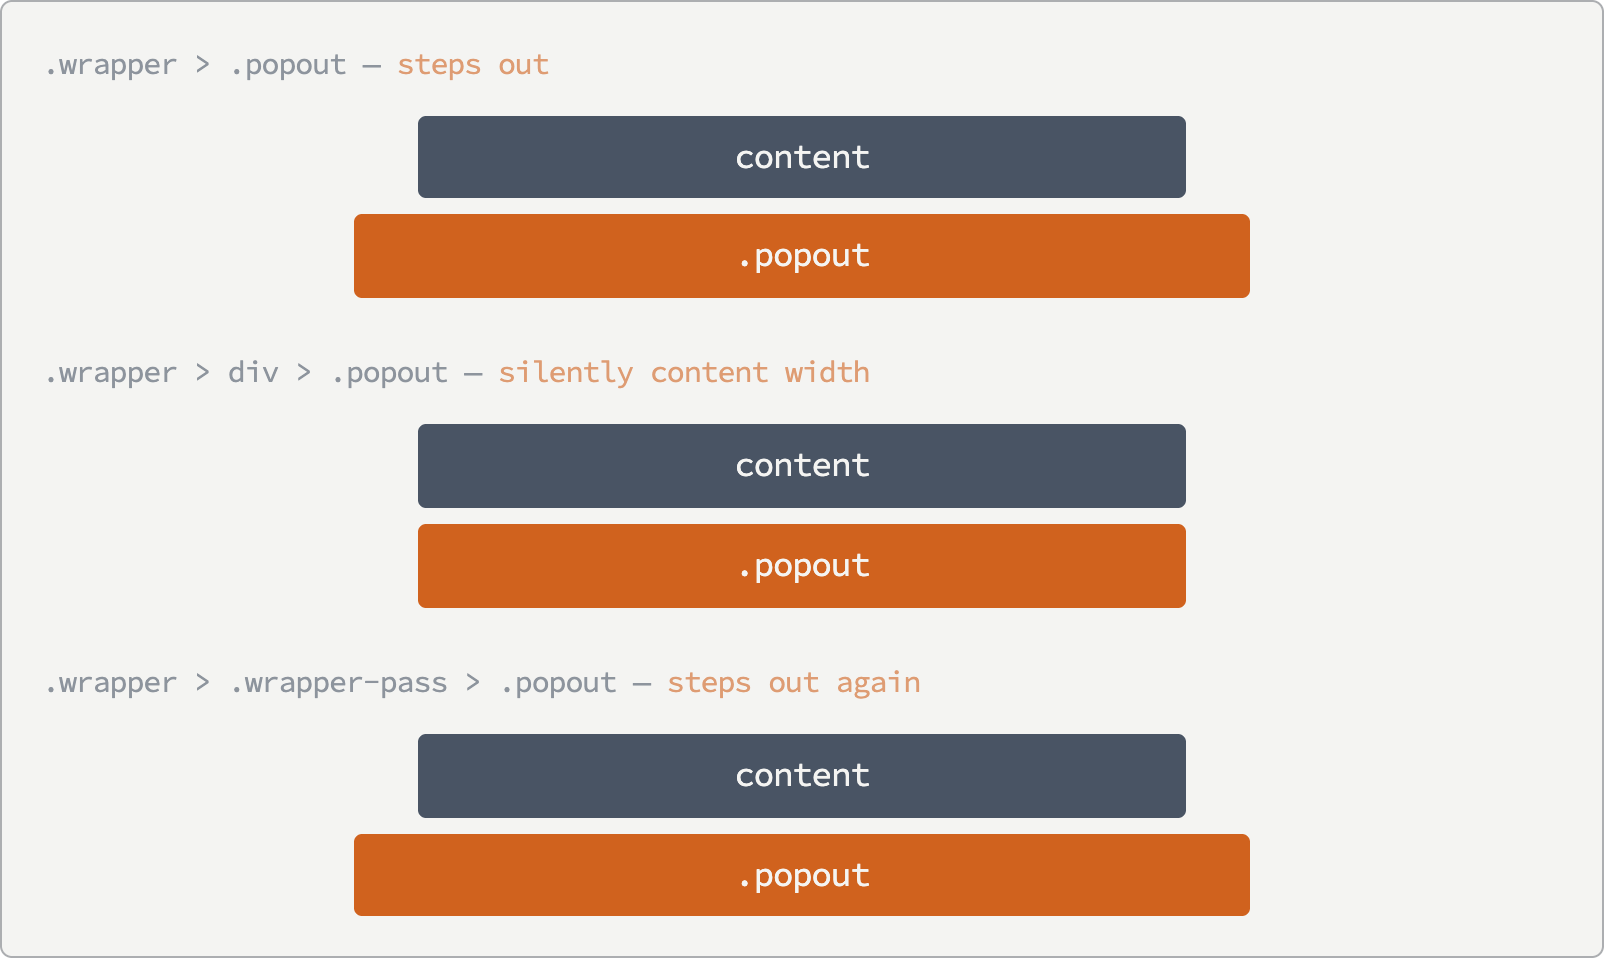
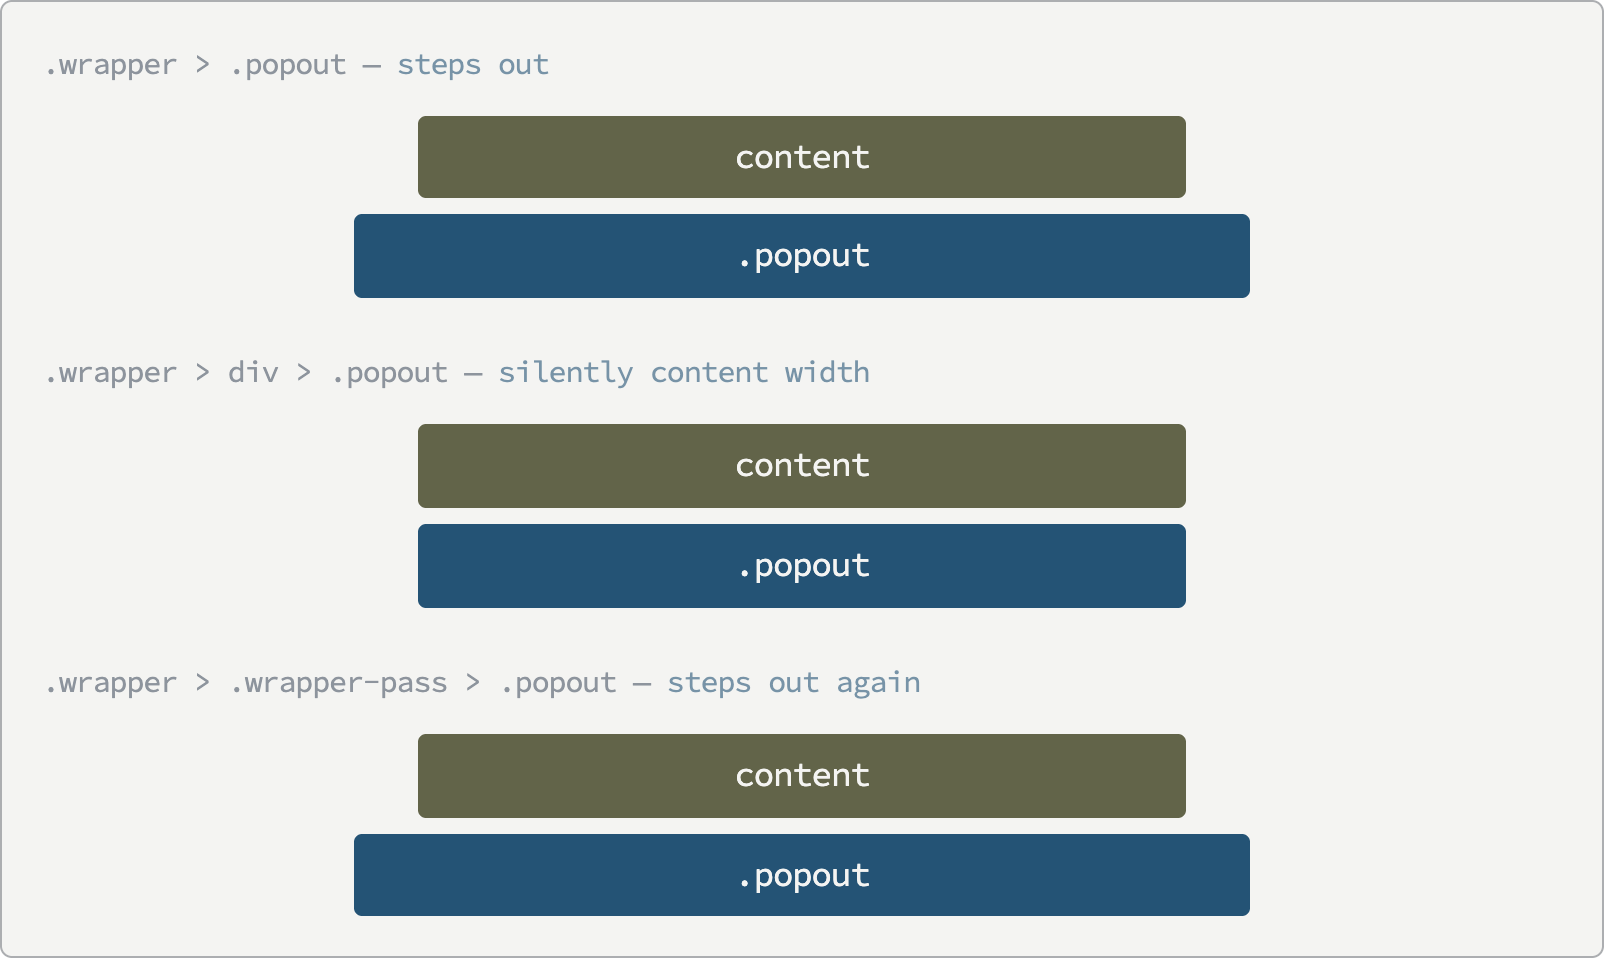
wiki: blue/green accents for the figures, and Layout shift gets the band drawn
The layout-breakout and tooltip figures move off the slate and the orange onto --color-accent-blue and --color-accent-green. Label text on a bar clears AA as a side effect: --color-bg measured 3.50 on the old orange, 7.42 on blue and 5.55 on green. The two theme-toggle shots keep their colors, which are that page's subject, and the tooltip itself keeps the block's own --color-text fill for the same reason.

Layout shift had no figure despite being the longest page on the wiki. The new one re-measures the 409-430px band rather than redrawing the table: six srcdoc iframes, one per width and font state, each loading the compiled global.css and the real footer, with row counts and cluster heights read back out of each frame's own geometry. Only 412px disagrees, two rows against three. All six report the same 96px height, which is the reserve holding the box still while the links redistribute inside it — the visual form of the page's claim that the fix halves the shift rather than removing it.

The footer is lifted verbatim into site-footer.js, beside the existing site-header.js. A first attempt hand-built the link row and every column agreed: the real cluster sits inside .wrapper's 6vw gutter and shares a flex container with the platform nav, and those ~26px are the whole difference between wrapping at two rows and three.

diff --git a/src/wiki/_sources/site-footer.js b/src/wiki/_sources/site-footer.js
@@ -1,0 +1,4 @@
+// The site's REAL footer, lifted verbatim from a rendered landing page — the .wrapper gutter and the platform nav beside the link cluster are both load-bearing for where the links wrap.
+// Re-lift it with: curl -s http://localhost:8080/ and take the <footer class="site-footer …"> element.
+
+window.SITE_FOOTER = "<footer class=\"site-footer | mt-l-xl p-s-m\">\n  <div class=\"wrapper\">\n    <div class=\"cluster gutter-xs\">\n      <nav aria-label=\"Complementary\" class=\"footer-links | cluster text-step-min-2\">\n        <a href=\"https://github.com/pjedlund/soli-deo-gloria-dedication\" rel=\"license noopener\"><abbr title=\"Soli Deo Gloria\">SDG</abbr></a> All glory to God, 2026.\n        <a href=\"https://github.com/pjedlund/jedee\" rel=\"noopener\">JEDEE <small>0.9.0</small>\n        </a>\n\n        \n          <a href=\"/styleguide/\">Style Guide</a>\n        \n          <a href=\"/imprint/\">Imprint</a>\n        \n          <a href=\"/privacy/\">Privacy</a>\n        \n          <a href=\"/accessibility/\">Accessibility</a>\n        \n      </nav>\n\n      <nav aria-label=\"Platforms\" class=\"cluster\">\n        <!-- gets the first item from the feed loop set in meta -->\n        <a href=\"/feed.xml\" rel=\"alternate\" type=\"application/atom+xml\" data-icon data-tooltip=\"Atom Feed\" data-tooltip-position=\"top\" class=\"button\">\n          <span class=\"visually-hidden\">Atom Feed</span>\n          <svg xmlns=\"http://www.w3.org/2000/svg\" width=\"1em\" height=\"1em\" fill=\"none\" stroke=\"currentColor\" stroke-width=\"2\" viewBox=\"0 0 24 24\" aria-hidden=\"true\"><title>RSS</title><path d=\"M4 11a9 9 0 0 1 9 9M4 4a16 16 0 0 1 16 16\"></path><circle cx=\"5\" cy=\"19\" r=\"1\"></circle></svg>\n        </a>\n\n        \n          \n            \n            \n            <!-- regular platforms -->\n            <a data-icon href=\"https://github.com/pjedlund\" rel=\"me\" data-tooltip=\"GitHub\" data-tooltip-position=\"top\" class=\"no-indicator button\">\n              <span class=\"visually-hidden\">GitHub</span>\n              <svg xmlns=\"http://www.w3.org/2000/svg\" width=\"1em\" height=\"1em\" fill=\"none\" stroke=\"currentColor\" stroke-linecap=\"round\" stroke-linejoin=\"round\" stroke-width=\"2\" viewBox=\"0 0 24 24\" aria-hidden=\"true\"><path d=\"M15 22v-4a4.8 4.8 0 0 0-1-3.5c3 0 6-2 6-5.5.08-1.25-.27-2.48-1-3.5.28-1.15.28-2.35 0-3.5 0 0-1 0-3 1.5-2.64-.5-5.36-.5-8 0C6 2 5 2 5 2c-.3 1.15-.3 2.35 0 3.5A5.4 5.4 0 0 0 4 9c0 3.5 3 5.5 6 5.5-.39.49-.68 1.05-.85 1.65S8.93 17.38 9 18v4\"></path><path d=\"M9 18c-4.51 2-5-2-7-2\"></path></svg>\n            </a>\n          \n        \n          \n            \n            \n            <!-- regular platforms -->\n            <a data-icon href=\"https://mastodon.social/@pjedlund\" rel=\"me\" data-tooltip=\"Mastodon\" data-tooltip-position=\"top\" class=\"no-indicator button\">\n              <span class=\"visually-hidden\">Mastodon</span>\n              <svg xmlns=\"http://www.w3.org/2000/svg\" width=\"1em\" height=\"1em\" fill=\"none\" stroke=\"currentColor\" stroke-width=\"2\" viewBox=\"0 0 24 24\" aria-hidden=\"true\"><path d=\"M21.887 5.996c-.308-2.314-2.298-4.14-4.655-4.492-.399-.059-1.906-.278-5.398-.278h-.026c-3.495 0-4.243.219-4.642.278-2.295.345-4.387 1.982-4.897 4.326-.242 1.153-.268 2.433-.222 3.606.065 1.684.078 3.361.228 5.039a24 24 0 0 0 .543 3.304c.484 2.009 2.439 3.68 4.355 4.359 2.049.71 4.256.829 6.368.342q.347-.085.69-.193c.513-.165 1.114-.351 1.559-.676q.009-.006.013-.016.006-.01.007-.024v-1.624s0-.013-.007-.02q-.002-.01-.013-.016l-.02-.01h-.019a17.4 17.4 0 0 1-4.132.49c-2.397 0-3.041-1.153-3.224-1.63a5.3 5.3 0 0 1-.281-1.287q0-.01.003-.019.002-.012.013-.017l.02-.01h.023c1.33.325 2.697.491 4.067.491.33 0 .657 0 .987-.01 1.376-.04 2.828-.11 4.184-.378.033-.007.069-.013.098-.02 2.138-.418 4.172-1.724 4.378-5.032.006-.129.026-1.365.026-1.498 0-.461.147-3.258-.023-4.979z\"></path><path fill=\"currentColor\" stroke-width=\"1\" d=\"M6.061 7.288c0-.676.533-1.219 1.193-1.219.661 0 1.193.547 1.193 1.219 0 .673-.532 1.22-1.193 1.22-.66 0-1.193-.547-1.193-1.22Z\"></path></svg>\n            </a>\n          \n        \n          \n            \n            \n            <!-- regular platforms -->\n            <a data-icon href=\"https://x.com/pjedlund\" rel=\"me\" data-tooltip=\"X\" data-tooltip-position=\"top\" class=\"no-indicator button\">\n              <span class=\"visually-hidden\">X</span>\n              <svg xmlns=\"http://www.w3.org/2000/svg\" width=\"1em\" height=\"1em\" fill=\"currentColor\" viewBox=\"0 0 24 24\" aria-hidden=\"true\"><path d=\"M18.901 1.153h3.68l-8.04 9.19L24 22.846h-7.406l-5.8-7.584-6.638 7.584H.474l8.6-9.83L0 1.154h7.594l5.243 6.932ZM17.61 20.644h2.039L6.486 3.24H4.298Z\"></path></svg>\n            </a>\n          \n        \n          \n            \n            \n            <!-- regular platforms -->\n            <a data-icon href=\"https://www.flickr.com/people/pjedlund\" rel=\"me\" data-tooltip=\"Flickr\" data-tooltip-position=\"top\" class=\"no-indicator button\">\n              <span class=\"visually-hidden\">Flickr</span>\n              <svg xmlns=\"http://www.w3.org/2000/svg\" width=\"1em\" height=\"1em\" fill=\"currentColor\" viewBox=\"0 0 24 24\" aria-hidden=\"true\"><path d=\"M5.334 6.666a5.335 5.335 0 0 0 0 10.668A5.333 5.333 0 0 0 10.666 12a5.333 5.333 0 0 0-5.332-5.334m13.332 0A5.333 5.333 0 0 0 13.334 12 5.333 5.333 0 1 0 24 12a5.335 5.335 0 0 0-5.334-5.334\"></path></svg>\n            </a>\n          \n        \n          \n            \n            \n            <!-- regular platforms -->\n            <a data-icon href=\"https://dribbble.com/pjedlund\" rel=\"me\" data-tooltip=\"Dribbble\" data-tooltip-position=\"top\" class=\"no-indicator button\">\n              <span class=\"visually-hidden\">Dribbble</span>\n              <svg xmlns=\"http://www.w3.org/2000/svg\" width=\"1em\" height=\"1em\" fill=\"currentColor\" viewBox=\"0 0 24 24\" aria-hidden=\"true\"><path d=\"M12 24C5.385 24 0 18.615 0 12S5.385 0 12 0s12 5.385 12 12-5.385 12-12 12m10.12-10.358c-.35-.11-3.17-.953-6.384-.438 1.34 3.684 1.887 6.684 1.992 7.308a10.28 10.28 0 0 0 4.395-6.87zm-6.115 7.808c-.153-.9-.75-4.032-2.19-7.77l-.066.02c-5.79 2.015-7.86 6.025-8.04 6.4a10.16 10.16 0 0 0 6.29 2.166c1.42 0 2.77-.29 4-.814zm-11.62-2.58c.232-.4 3.045-5.055 8.332-6.765q.202-.067.405-.12-.392-.879-.832-1.74C7.17 11.775 2.206 11.71 1.756 11.7l-.004.312c0 2.633.998 5.037 2.634 6.855zm-2.42-8.955c.46.008 4.683.026 9.477-1.248a66 66 0 0 0-3.8-5.928 10.28 10.28 0 0 0-5.676 7.17zM9.6 2.052c.282.38 2.145 2.914 3.822 6 3.645-1.365 5.19-3.44 5.373-3.702A10.2 10.2 0 0 0 12 1.764c-.825 0-1.63.1-2.4.285zm10.335 3.483c-.218.29-1.935 2.493-5.724 4.04.24.49.47.985.68 1.486.08.18.15.36.22.53 3.41-.43 6.8.26 7.14.33-.02-2.42-.88-4.64-2.31-6.38z\"></path></svg>\n            </a>\n          \n        \n          \n            \n            \n            <!-- regular platforms -->\n            <a data-icon href=\"https://bsky.app/profile/johanedlund.se\" rel=\"me\" data-tooltip=\"Bluesky\" data-tooltip-position=\"top\" class=\"no-indicator button\">\n              <span class=\"visually-hidden\">Bluesky</span>\n              <svg xmlns=\"http://www.w3.org/2000/svg\" width=\"1em\" height=\".9em\" fill=\"var(--color-bg)\" stroke=\"currentColor\" stroke-width=\"2\" viewBox=\"0 0 24 24\" aria-hidden=\"true\"><path d=\"M12 10.8c-1.087-2.114-4.046-6.053-6.798-7.995C2.566.944 1.561 1.266.902 1.565.139 1.908 0 3.08 0 3.768c0 .69.378 5.65.624 6.479.815 2.736 3.713 3.66 6.383 3.364q.204-.03.415-.056-.207.033-.415.056c-3.912.58-7.387 2.005-2.83 7.078 5.013 5.19 6.87-1.113 7.823-4.308.953 3.195 2.05 9.271 7.733 4.308 4.267-4.308 1.172-6.498-2.74-7.078a9 9 0 0 1-.415-.056q.21.026.415.056c2.67.297 5.568-.628 6.383-3.364.246-.828.624-5.79.624-6.478 0-.69-.139-1.861-.902-2.206-.659-.298-1.664-.62-4.3 1.24C16.046 4.748 13.087 8.687 12 10.8Z\"></path></svg>\n            </a>\n          \n        \n          \n            \n            \n            <!-- regular platforms -->\n            <a data-icon href=\"https://www.strava.com/athletes/62084904\" rel=\"me\" data-tooltip=\"Strava\" data-tooltip-position=\"top\" class=\"no-indicator button\">\n              <span class=\"visually-hidden\">Strava</span>\n              <svg xmlns=\"http://www.w3.org/2000/svg\" width=\"24\" height=\"24\" fill=\"none\" stroke=\"currentColor\" stroke-linecap=\"round\" stroke-linejoin=\"round\" stroke-width=\"2\" viewBox=\"0 0 24 24\" aria-hidden=\"true\" class=\"icon icon-tabler icons-tabler-outline icon-tabler-brand-strava\"><path stroke=\"none\" d=\"M0 0h24v24H0z\"></path><path d=\"M15 13 10 3 5 13m6 0 4 8 4-8\"></path></svg>\n            </a>\n          \n        \n      </nav>\n    </div>\n\n    \n  </div>\n</footer>";

diff --git a/src/wiki/_sources/layout-shift.html b/src/wiki/_sources/layout-shift.html
@@ -1,0 +1,126 @@
+<!doctype html>
+<html lang="en" data-theme="light">
+<head>
+<meta charset="utf-8">
+<title>Layout shift — wiki mockup</title>
+
+<!-- ⚠ The site's compiled bundle, so the cluster inside every frame IS site-footer.css plus the cluster composition — including the `@media (width < 27rem)` reserve. It is a build artifact: run `npm start` or `npm run build` once if it is missing. -->
+<link rel="stylesheet" href="../../_includes/css/global.css">
+<script src="site-footer.js"></script>
+
+<style>
+  @font-face { font-family: 'Source Sans'; font-weight: 100 1000; src: url('../../assets/fonts/source-sans/source-sans.woff2') format('woff2'); }
+  @font-face { font-family: 'Source Code Pro'; src: url('../../assets/fonts/source-code-pro/source-code-pro.woff2') format('woff2'); }
+
+  body { margin: 0; padding: 24px; background: #ddd; font-family: 'Source Sans', system-ui, sans-serif; }
+
+  /* A specimen carries its own paper the way a device frame carries its own bezel — so one shot reads deliberately on either theme of the wiki page. */
+  .specimen {
+    inline-size: fit-content;
+    background: var(--color-bg);
+    border: 1px solid var(--color-bg-accent-2);
+    border-radius: 6px;
+    padding: 20px;
+    margin-block-end: 40px;
+  }
+
+  .grid { display: grid; grid-template-columns: repeat(3, max-content); gap: 22px; align-items: start; }
+
+  .col-head {
+    font-family: 'Source Code Pro', ui-monospace, monospace;
+    font-size: 16px; color: var(--color-text); margin: 0 0 12px; text-align: center;
+  }
+  .col-head b { display: block; font-weight: 400; font-size: 13px; opacity: 0.55; margin-block-start: 3px; }
+  /* The one width the standard mobile audit emulates — the whole finding, so it is the one heading that is not grey. */
+  .col-head.inband b { color: var(--color-accent-blue); opacity: 1; }
+
+  .state {
+    font-family: 'Source Code Pro', ui-monospace, monospace;
+    font-size: 13px; color: color-mix(in oklab, var(--color-text) 55%, var(--color-bg)); margin: 14px 0 5px;
+  }
+  .rows { font-weight: 700; }
+  /* Green where the two font states agree, blue where they disagree — the disagreement IS the shift. */
+  .agree .rows { color: var(--color-accent-green); }
+  .differ .rows { color: var(--color-accent-blue); }
+
+  /* ⚠ An iframe, not a copy: the reserve is a `@media (width < 27rem)` query and a media query reads the VIEWPORT, so a fixed-width div inside this 1400px page would never match it. Every space and type token is vw-based for the same reason. */
+  iframe { display: block; border: 1px solid var(--color-bg-accent-2); border-radius: 4px; background: var(--color-bg); }
+</style>
+</head>
+<body>
+
+<div class="specimen" data-shot="layout-shift-font-band">
+  <div class="grid" id="grid"></div>
+</div>
+
+<script>
+  window.__mockupReady = false;
+
+  // ⚠ The WHOLE footer, lifted verbatim (site-footer.js) rather than a hand-built link row. A first attempt used just the <nav>, and every column agreed: the real cluster sits inside .wrapper, whose gutter is 6vw a side, and shares a flex container with the platform-icon nav. That ~26px of gutter is the difference between wrapping at two rows and three, so a copy without it measures the wrong element.
+
+  // ⚠ srcdoc, not src: a srcdoc frame inherits this document's origin, so its geometry can be read back. A separate file:// document is an opaque origin and contentDocument comes back null.
+  // ⚠ The bundle's own @font-face points at an absolute /assets path, dead under file://, and its src starts with local('Source Sans') — so without this redeclaration the "web font" column would quietly render in whatever the system had, and the figure would be worthless.
+  const frameDoc = font => `<!doctype html><html lang="en" data-theme="light" data-font="${font}"><head><meta charset="utf-8">
+    <link rel="stylesheet" href="../../_includes/css/global.css">
+    <style>
+      @font-face { font-family: 'Source Sans'; font-weight: 100 1000; src: url('../../assets/fonts/source-sans/source-sans.woff2') format('woff2'); }
+      body { margin: 0; background: var(--color-bg); }
+      /* Only the top margin is dropped — the footer's own p-s-m padding and the wrapper gutter inside it are what decide the wrap. */
+      .site-footer { margin-block-start: 0; }
+      /* The fallback state forced the way the page's own sweep forces it: drop the web family from the stack, leave the rest of the declaration alone. 'Source Sans Fallback' is the SHIPPED metric-matched face from base/fonts.css, not raw Arial, so this is the state a first visit actually paints. */
+      html[data-font='fallback'] .footer-links, html[data-font='fallback'] .footer-links * { font-family: 'Source Sans Fallback', arial, sans-serif; }
+    </style></head><body>${window.SITE_FOOTER}</body></html>`;
+
+  // 390 sits below the band, 412 inside it and is what Lighthouse's mobile preset emulates, 432 is 27rem — where the reserve stops applying.
+  const widths = [[390, 'below the band'], [412, 'Lighthouse mobile — in the band'], [432, 'above the band (27rem)']];
+  const states = [['web', 'web font'], ['fallback', 'fallback']];
+
+  const grid = document.getElementById('grid');
+  const frames = [];
+
+  widths.forEach(([w, note], i) => {
+    const col = document.createElement('div');
+    col.innerHTML = `<p class="col-head${i === 1 ? ' inband' : ''}">${w}px<b>${note}</b></p>`;
+    states.forEach(([font, label]) => {
+      const p = document.createElement('p');
+      p.className = 'state';
+      const f = document.createElement('iframe');
+      f.width = w;
+      f.setAttribute('scrolling', 'no');
+      f.srcdoc = frameDoc(font);
+      // ⚠ data-compare goes on the IFRAME, not the column: the column also carries a heading that differs per width, so the gate would pass on the heading even if both frames rendered the same.
+      f.dataset.compare = `band-${w}`;
+      col.append(p, f);
+      frames.push({ f, p, label, w });
+    });
+    grid.append(col);
+  });
+
+  (async () => {
+    await Promise.all(frames.map(({ f }) => new Promise(r => f.addEventListener('load', r, { once: true }))));
+    // ⚠ Each frame's OWN fonts.ready. The parent's says nothing about a child document, and a row count read before the web font lands is the fallback's — which would make every column agree.
+    await Promise.all(frames.map(({ f }) => f.contentDocument.fonts.ready));
+
+    const byWidth = {};
+    for (const fr of frames) {
+      const win = fr.f.contentWindow;
+      const links = [...win.document.querySelectorAll('.footer-links a')];
+      // Distinct top offsets IS the row count — measured from the rendered geometry rather than assumed from the table on the wiki page.
+      fr.rows = new Set(links.map(a => Math.round(a.getBoundingClientRect().top))).size;
+      fr.height = Math.round(win.document.querySelector('.footer-links').getBoundingClientRect().height);
+      fr.f.height = win.document.documentElement.scrollHeight;
+      (byWidth[fr.w] ??= []).push(fr);
+    }
+
+    for (const fr of frames) {
+      const differs = new Set(byWidth[fr.w].map(x => x.rows)).size > 1;
+      fr.p.className = `state ${differs ? 'differ' : 'agree'}`;
+      fr.p.innerHTML = `${fr.label} — <span class="rows">${fr.rows} rows, ${fr.height}px</span>`;
+    }
+
+    requestAnimationFrame(() => requestAnimationFrame(() => { window.__mockupReady = true; }));
+  })();
+</script>
+
+</body>
+</html>

diff --git a/src/wiki/_sources/layout-breakouts.html b/src/wiki/_sources/layout-breakouts.html
@@ -48,11 +48,11 @@
   .bar {
     font-family: 'Source Code Pro', ui-monospace, monospace;
     font-size: 17px; text-align: center; color: var(--color-bg);
-    background: var(--color-text); border-radius: 4px; padding-block: 9px;
+    background: var(--color-accent-green); border-radius: 4px; padding-block: 9px;
     margin-block-start: 8px;
   }
-  /* Orange marks the bars that stepped outside the text column — the whole point of the technique. */
-  .bar.popout, .bar.feature, .bar.full { background: var(--color-accent-orange); }
+  /* Blue marks the bars that stepped outside the text column — the whole point of the technique; green is the baseline they are measured against. */
+  .bar.popout, .bar.feature, .bar.full { background: var(--color-accent-blue); }
 
   .caption {
     font-family: 'Source Code Pro', ui-monospace, monospace;
@@ -60,7 +60,7 @@
   }
   .panel + .panel { margin-block-start: 26px; }
   /* The failing panel's own wrapper is a plain div — no class, so nothing here can accidentally rescue it. */
-  .panel .verdict { color: var(--color-accent-orange); opacity: 1; }
+  .panel .verdict { color: var(--color-accent-blue); opacity: 1; }
 </style>
 </head>
 <body>

diff --git a/src/wiki/_sources/tooltips.html b/src/wiki/_sources/tooltips.html
@@ -44,7 +44,7 @@
   .control {
     display: inline-flex; align-items: center; justify-content: center;
     inline-size: 24px; block-size: 24px; padding: 0;
-    color: var(--color-accent-orange); background: none; border: none;
+    color: var(--color-accent-blue); background: none; border: none;
   }
   .control svg { inline-size: 20px; block-size: 20px; }
 
@@ -52,7 +52,7 @@
     font-family: 'Source Code Pro', ui-monospace, monospace;
     font-size: 15px; color: var(--color-text); opacity: 0.6; margin: 0 0 10px;
   }
-  .caption b { font-weight: 400; opacity: 1; color: var(--color-accent-orange); }
+  .caption b { font-weight: 400; opacity: 1; color: var(--color-accent-green); }
   .panel + .panel { margin-block-start: 26px; }
 </style>
 </head>

diff --git a/src/wiki/Layout shift.md b/src/wiki/Layout shift.md
@@ -224,6 +224,11 @@ Everything above measures the shift where it happens. The complementary question
 
 **Document height was identical in both font states at every width tested.** The heading and the intro paragraph never change line count anywhere in the range — the two fonts disagree about the footer and nothing else.
 
+<figure class="popout" data-wiki-mockup>
+  <img eleventy:formats="webp,png" src="/assets/images/wiki/layout-shift-font-band.png" alt="The site footer rendered six times in a three-by-two grid: at 390, 412 and 432 pixels wide, each in the web font and in the metric-matched fallback. At 390 both states take three rows of links; at 432 both take two. Only at 412 do they disagree — two rows in the web font, three in the fallback — and every one of the six reports the same 96-pixel cluster height." width="2640" height="1280">
+  <figcaption>The band, re-measured rather than redrawn: each panel is the real footer in its own iframe at that viewport width, and the row counts are read back off the rendered geometry. Only the middle column disagrees. Note that all six report the same 96 px height — that is the reserve holding the box still while the links redistribute inside it, which is why the fix halves the shift instead of removing it.</figcaption>
+</figure>
+
 ⚠ **The disagreement is a band roughly 409–430 px wide, and Lighthouse's mobile preset emulates 412 px** — inside it, near the lower edge. That is the whole reason the landing page carries a residual CLS on the mobile audit while measuring clean at 360, 390, 720 and up. It is not a mobile problem; it is a 22-pixel problem that the standard audit width happens to fall into. Anyone reproducing this at their own browser width will find nothing wrong.
 
 The residual metric error after the re-derived descriptors, measured as pure advance width on one unwrapped string:
@@ -306,6 +311,16 @@ Two things worth knowing if the layer is ever extended:
 - **Per-platform matching has an established shape.** Capsize's [`createFontStack`](https://github.com/seek-oss/capsize) takes several fallbacks and emits one `@font-face` per fallback, each with its own `size-adjust`, chained as `'Source Serif', 'Source Serif Fallback: Georgia', 'Source Serif Fallback: Noto Serif', serif`; the browser skips any family whose `local()` finds nothing, so each platform gets its own tuned face. Liberation Sans and Liberation Mono are metric-identical to Arial and Courier New and could share the existing descriptors as extra `local()` candidates. Nothing metric-compatible with Georgia ships anywhere by default.
 
 The decision was to change nothing: the CSS is right for the platforms that have the fonts, harmless on the one that does not, and the only "bad" number comes from a machine with neither. What changed is how the audit is read.
+
+### The figure
+
+`src/wiki/_sources/layout-shift.html` draws the band above. Six `srcdoc` iframes, one per width and font state, each loading the compiled `global.css` and the real footer lifted verbatim into `site-footer.js`; the row counts and heights in the labels are read out of each frame's own geometry after its fonts settle, so the picture states what it measured rather than repeating the table.
+
+⚠ **An iframe, not a copy.** The reserve is a `@media (width < 27rem)` query and a media query reads the *viewport*, so a fixed-width `div` inside the 1400 px shooter page would never match it — and every space and type token here is `vw`-based for the same reason. `srcdoc` rather than `src`: a `srcdoc` frame inherits the parent's origin so its geometry can be read back, where a separate `file://` document is an opaque origin and `contentDocument` comes back `null`.
+
+⚠ **The first attempt built the link row by hand, and all six columns agreed.** The real cluster sits inside `.wrapper`, whose gutter is `6vw` a side, and shares a flex container with the platform-icon nav — about 26 px of width that is the whole difference between wrapping at two rows and three. A simplified copy measures a different element and quietly reports no problem. Lift the markup.
+
+⚠ **The bundle's own `@font-face` is unusable here**: it points at an absolute `/assets` path, dead under `file://`, and its `src` list starts with `local('Source Sans')`. Without redeclaring the face by relative path, the "web font" column renders in whatever the machine happens to have installed — which is the same class of mistake as the Netlify finding two sections up, in miniature.
 
 ### Measuring it honestly
 
